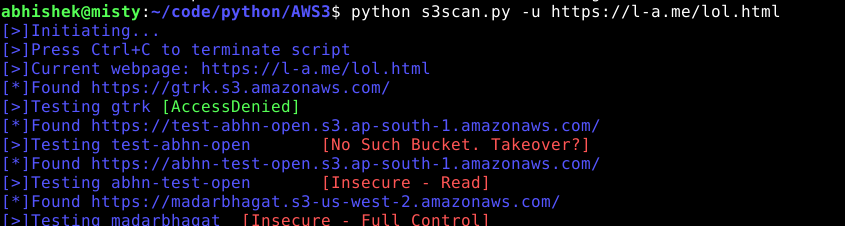
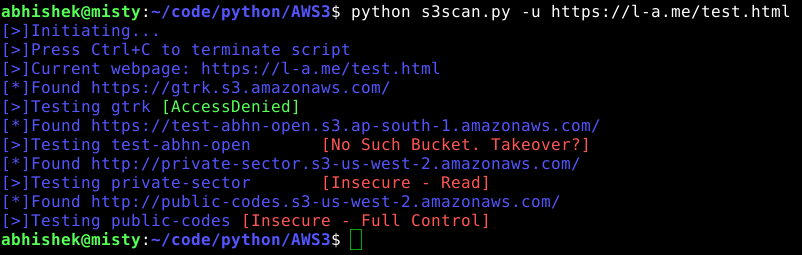
replaced demo image. http(s) changes

Changed region(s): [[0.0, 0.0, 0.9975, 1.0]]

diff --git a/s3scan.py b/s3scan.py
@@ -65,7 +65,7 @@ def scanner(url):
 			
 			page_source = get_source(url)
 
-			reg = re.compile('((?:https)(?::\\/{2}[\\.\\w-]+\\.amazonaws.com)(?:[\\/|\\.]?)(?:[^\\s"]*))')
+			reg = re.compile('((?:https*)(?::\\/{2}[\\.\\w-]+\\.amazonaws.com)(?:[\\/|\\.]?)(?:[^\\s"]*))')
 
 			# return if empty page
 			if page_source == None:
@@ -80,7 +80,10 @@ def scanner(url):
 
 				# grab the username
 				# https://abhn.s3.amazonaws.com/randomstring ==> abhn
-				bucketName = bucketUrl.split('.s3')[0].split('https://')[1]
+				if "https" in bucketUrl:
+					bucketName = bucketUrl.split('.s3')[0].split('https://')[1]
+				else:
+					bucketName = bucketUrl.split('.s3')[0].split('http://')[1]
 
 				bucket = s3.Bucket(bucketName)
 
